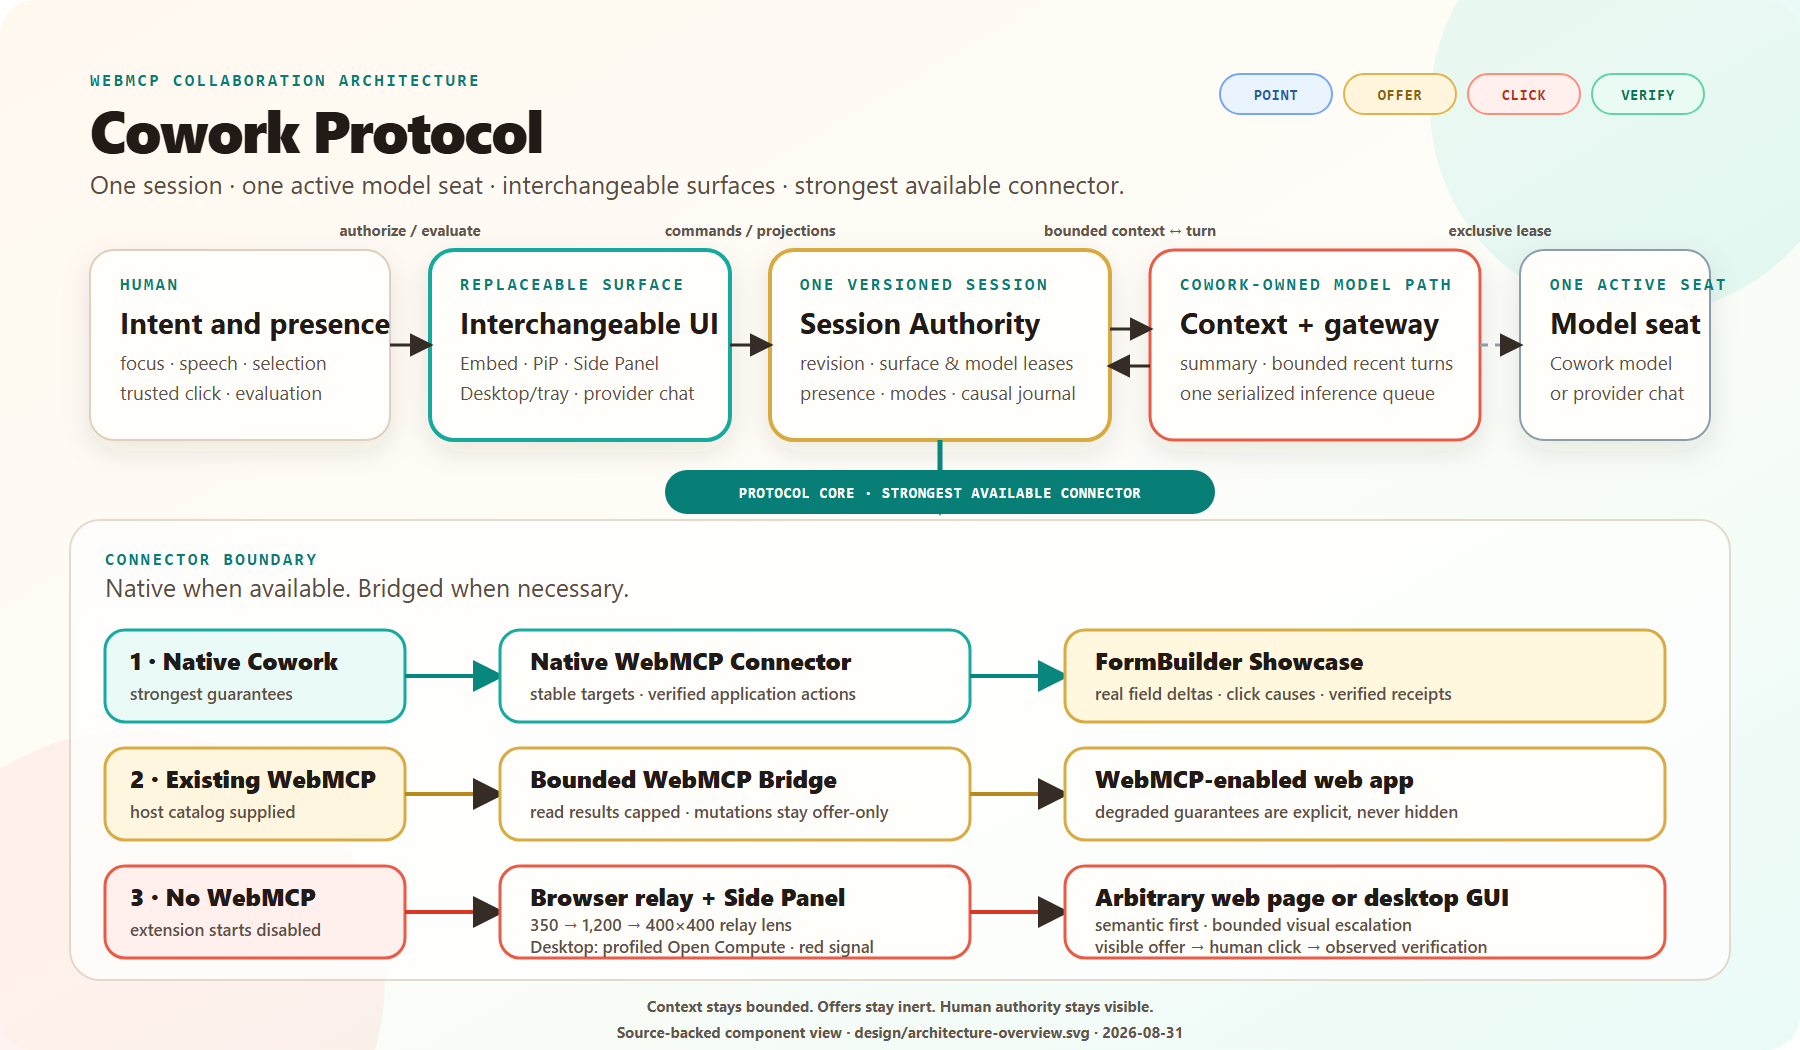
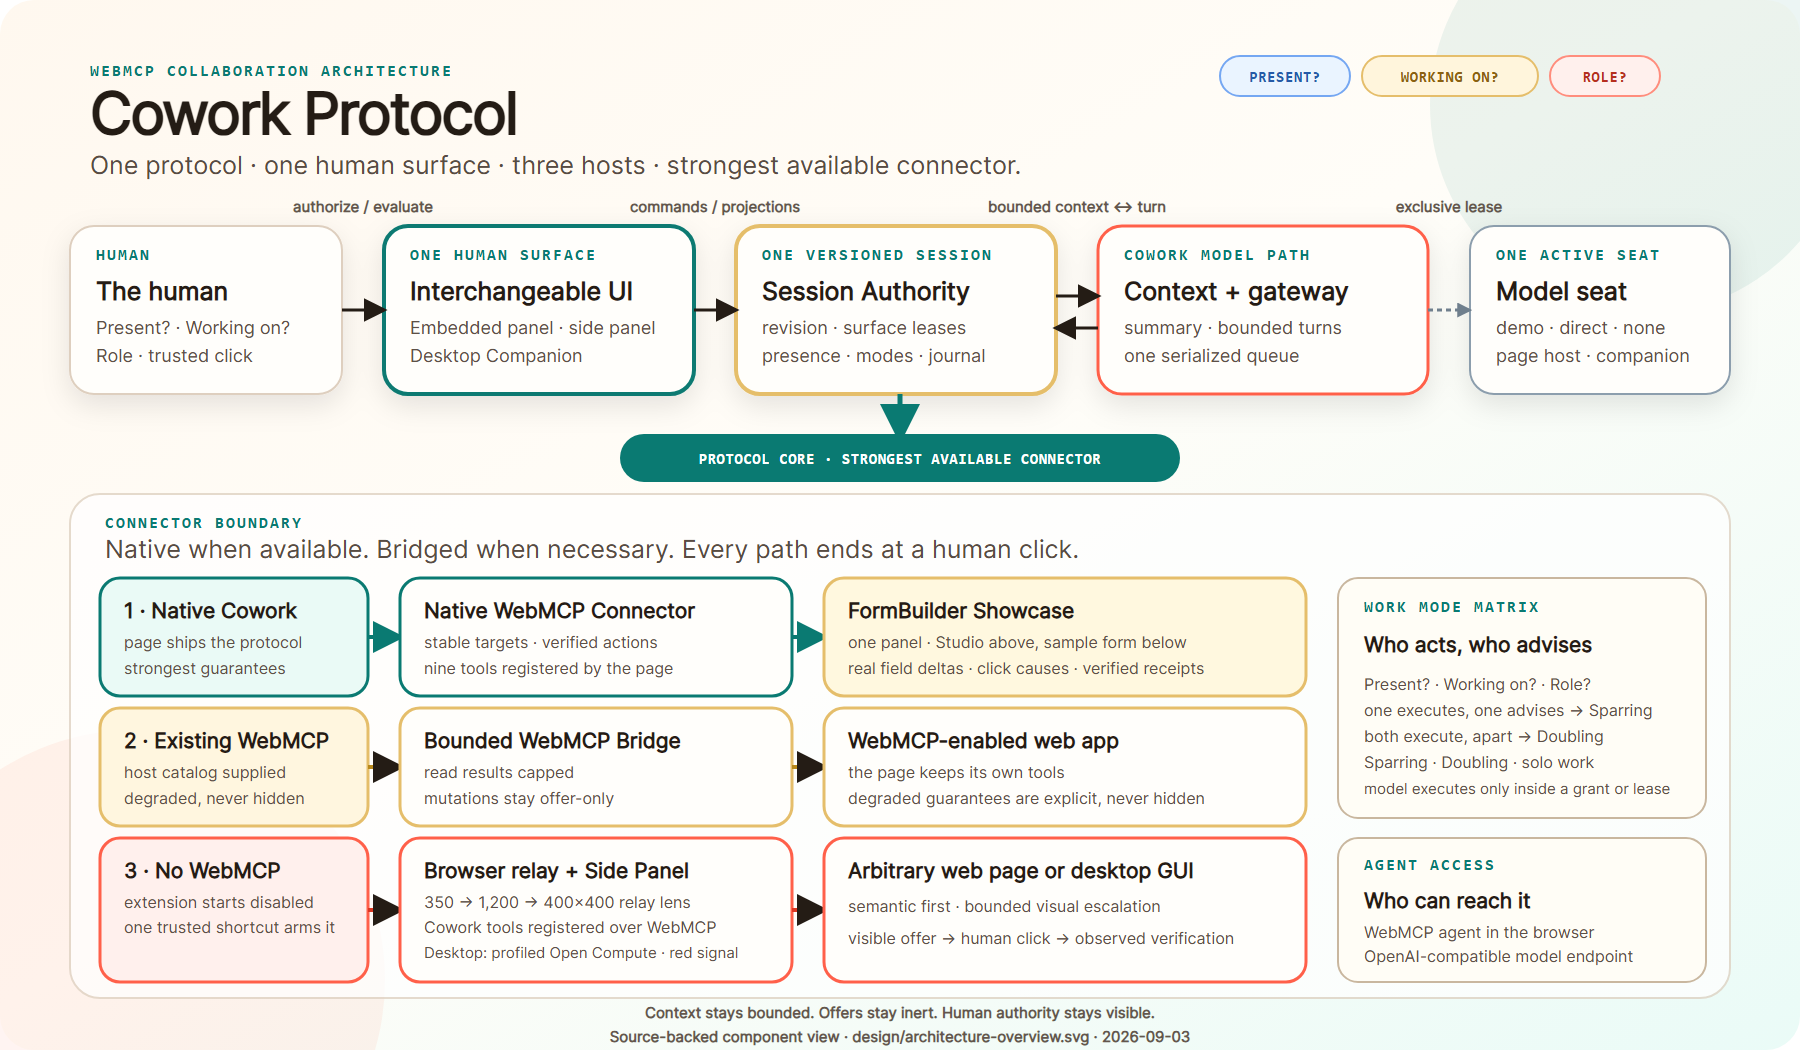
design: architecture overview shows work modes, model seat and the three hosts
The map was last redrawn on 31 August and had fallen behind the protocol. It
now carries the work-mode matrix (present · working on · role, and that a model
executes only inside a grant or lease), the model seat with all five outcomes,
the three-hosts split behind one human surface, that the extension registers
the Cowork tools over WebMCP on foreign pages, and that one panel serves both
FormBuilder Studio and the sample form below it.

Text boxes were also cramped: every box now keeps at least 18px between its
text and its frame, lines wrap instead of shrinking, and no two texts overlap.

The Desktop Companion MCP server is deliberately not drawn: it is not on
origin/main yet.

Changed region(s): [[0.0311, 0.061, 0.9644, 1.0], [0.6844, 0.0305, 0.9333, 0.1219]]

diff --git a/docs/architecture.md b/docs/architecture.md
@@ -15,13 +15,22 @@ This UML-like C4 component view answers one question: which component owns conte
 
 ![Cowork Protocol architecture overview](../design/architecture-overview.svg)
 
-The overview above is the compact submission view: human intent can enter
-through any compatible surface, the Protocol Core keeps context and authority
-bounded, and the runtime selects the strongest connector the current page
-actually provides. Where no page connector exists, the extension relay stays
-bounded to the browser or the Desktop Companion may invoke Open Compute through
-a semantic-first token profile and an explicitly signaled visual fallback.
-The Mermaid views below remain the source-backed
+The overview above is the compact submission view: one protocol, one human
+surface, three hosts. Each partner answers three questions -- present, working
+on what, in which role -- and the resulting work mode
+([work-modes.md](work-modes.md)) names who may click; a model executes only
+inside a grant or lease. The same human surface is rendered by an embedded
+panel, the extension side panel or the Desktop Companion, and one panel serves
+both halves of the showcase page: FormBuilder Studio above and the sample form
+below. One versioned Session Authority and one serialized gateway feed the
+single active model seat, which resolves to a scripted demo helper, a direct
+OpenAI-compatible connection, a same-origin page host, the connected Companion,
+or nothing at all. The Protocol Core then selects the strongest connector the
+current page actually provides. Where no page connector exists, the extension
+relay stays bounded to the browser and registers the Cowork tools over WebMCP
+on that foreign page, and the Desktop Companion may invoke Open Compute as a
+filtered fallback through a semantic-first token profile with an explicitly
+signaled visual escalation. The Mermaid views below remain the source-backed
 engineering detail and text alternatives.
 
 ```mermaid
